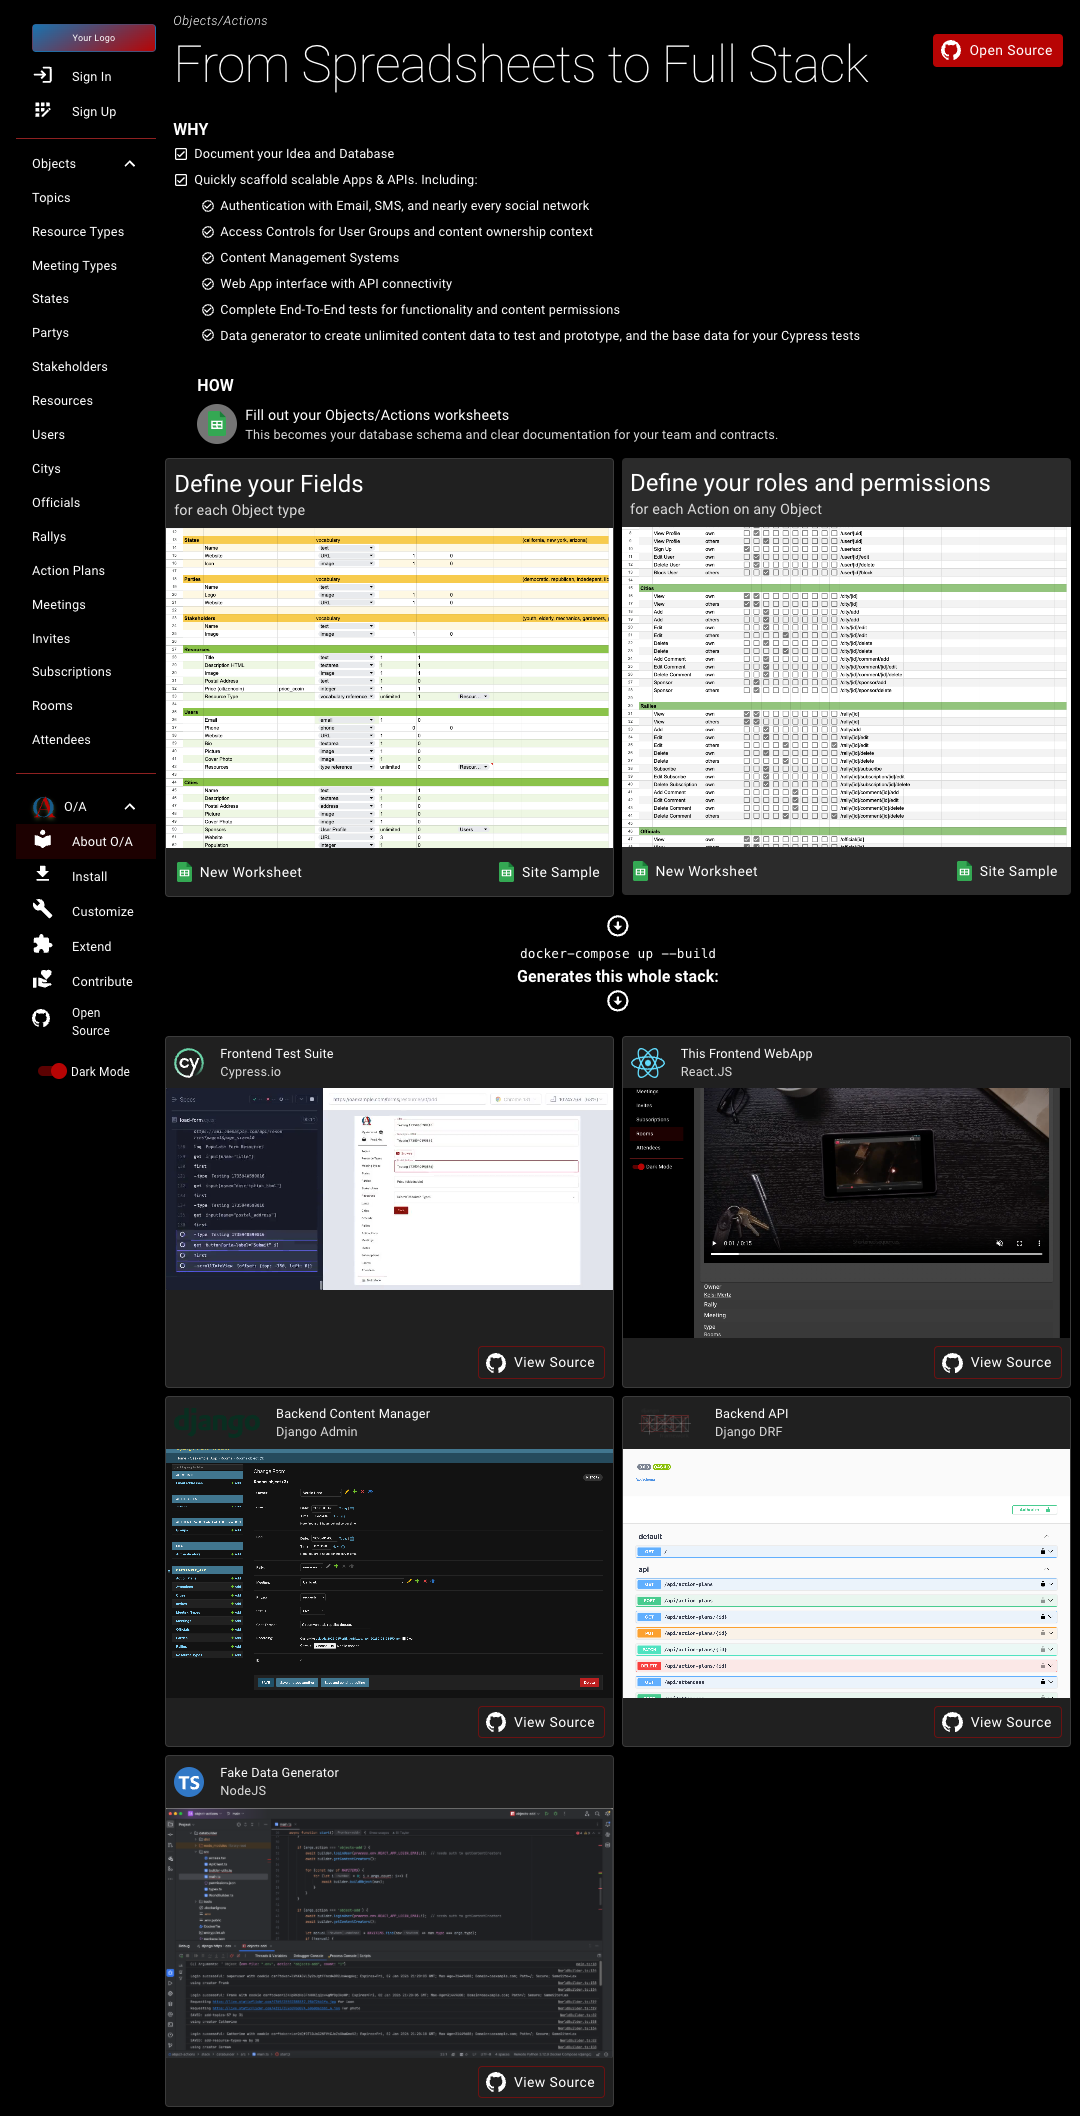
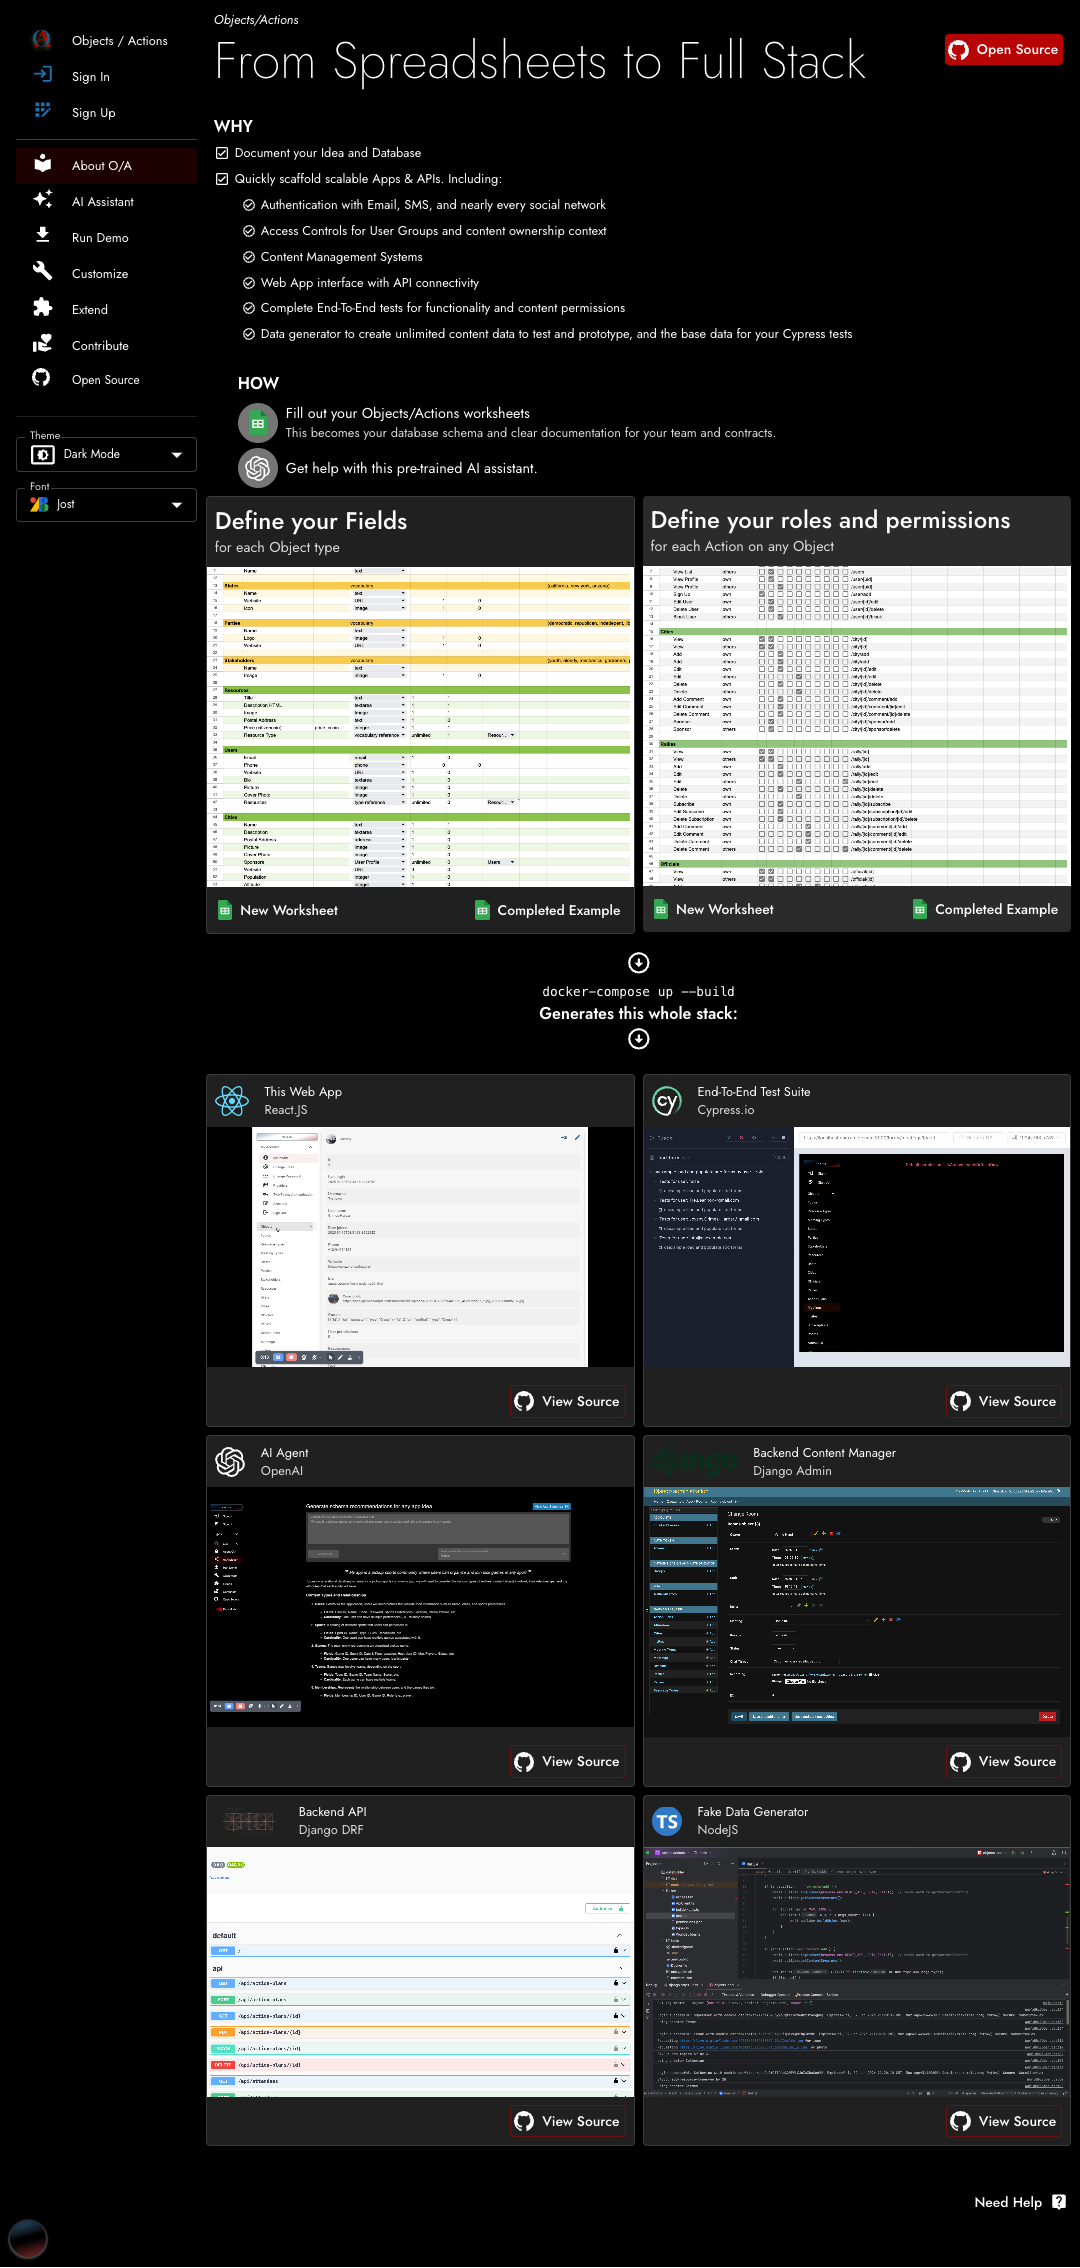
#major release with AI agent to help with schema building

diff --git a/stack/reactjs/src/object-actions/docs/OaStackCards.tsx b/stack/reactjs/src/object-actions/docs/OaStackCards.tsx
@@ -24,6 +24,55 @@ const OaStackCards: React.FC = () => {
       alignContent={'flex-start'}
       alignItems={'flex-start'}
     >
+
+      <Grid item xs={12} sm={6} data-label={'ReactWebApp'}>
+        <Card variant="outlined">
+          <CardHeader
+            sx={{ mb: 0, p: 1 }}
+            avatar={<img src={'/oa-assets/logo-react.svg'} height={30} />}
+            title={'This Web App'}
+            subheader={'React.JS'}
+          />
+
+          <CardMedia sx={{ height: mediaHeight, position: 'relative' }} >
+            <video
+              autoPlay
+              muted
+              playsInline={true}
+              loop={true}
+              poster={'https://github.com/eliataylor/objects-actions/raw/main/docs/images/demo-reactjs.png'}
+              style={{ width: '100%' }}
+              controls={true}
+            >
+              <source src={'/oa-assets/walkthrough.mp4'} type="video/mp4" />
+            </video>
+          </CardMedia>
+
+          <Box sx={{ textAlign: 'right', p: 1, alignContent: 'flex-end' }}>
+            <a
+              href={
+                'https://github.com/eliataylor/objects-actions/blob/main/stack/reactjs/src/theme/ThemeContext.js'
+              }
+              target={'_blank'}
+            >
+              <TightButton
+                size={'small'}
+                variant={'outlined'}
+                startIcon={
+                  <LightDarkImg
+                    light={'/oa-assets/github-mark.svg'}
+                    dark={'/oa-assets/github-mark-white.svg'}
+                    styles={{ height: 20 }}
+                  />
+                }
+              >
+                View Source
+              </TightButton>
+            </a>
+          </Box>
+        </Card>
+      </Grid>
+
       <Grid item xs={12} sm={6} data-label={'CypressIO'}>
         <Card sx={{ position: 'relative' }} variant="outlined">
           <CardHeader
@@ -55,54 +104,6 @@ const OaStackCards: React.FC = () => {
             <a
               href={
                 'https://github.com/eliataylor/objects-actions/blob/main/stack/cypress/cypress/e2e/read-only/load-form.cy.ts#L20'
-              }
-              target={'_blank'}
-            >
-              <TightButton
-                size={'small'}
-                variant={'outlined'}
-                startIcon={
-                  <LightDarkImg
-                    light={'/oa-assets/github-mark.svg'}
-                    dark={'/oa-assets/github-mark-white.svg'}
-                    styles={{ height: 20 }}
-                  />
-                }
-              >
-                View Source
-              </TightButton>
-            </a>
-          </Box>
-        </Card>
-      </Grid>
-
-      <Grid item xs={12} sm={6} data-label={'ReactWebApp'}>
-        <Card variant="outlined">
-          <CardHeader
-            sx={{ mb: 0, p: 1 }}
-            avatar={<img src={'/oa-assets/logo-react.svg'} height={30} />}
-            title={'This Web App'}
-            subheader={'React.JS'}
-          />
-
-          <CardMedia sx={{ height: mediaHeight, position: 'relative' }} >
-            <video
-              autoPlay
-              muted
-              playsInline={true}
-              loop={true}
-              poster={'https://github.com/eliataylor/objects-actions/raw/main/docs/images/demo-reactjs.png'}
-              style={{ width: '100%' }}
-              controls={true}
-            >
-              <source src={'/oa-assets/walkthrough.mp4'} type="video/mp4" />
-            </video>
-          </CardMedia>
-
-          <Box sx={{ textAlign: 'right', p: 1, alignContent: 'flex-end' }}>
-            <a
-              href={
-                'https://github.com/eliataylor/objects-actions/blob/main/stack/reactjs/src/theme/ThemeContext.js'
               }
               target={'_blank'}
             >

diff --git a/stack/reactjs/src/screens/Home.tsx b/stack/reactjs/src/screens/Home.tsx
@@ -28,13 +28,13 @@ const Home: React.FC<HomeProps> = ({ loading = false }) => {
       }}
     >
       <Grid item>
-        <Typography variant="h2" component={'h1'} >
+        <Typography variant="h2" component={"h1"}>
           Your Brand
         </Typography>
         <Grid sx={{ width: 300, margin: "auto", marginTop: 3, marginBottom: 3 }}>
           <Logo height={60} />
         </Grid>
-        <Typography variant="h2" component={Link} to={"/content"} >
+        <Typography variant="h2" component={Link} to={"/content"} style={{textDecorationThickness:1}} >
           Your Content
         </Typography>
       </Grid>
@@ -47,6 +47,10 @@ const Home: React.FC<HomeProps> = ({ loading = false }) => {
         </Grid>
       )}
 
+      <Typography variant="h2" component={"a"} style={{textDecorationThickness:1}} href={"https://github.com/eliataylor/objects-actions"} target={"_blank"}>
+        Your CodeBase
+      </Typography>
+
       <Grid
         container
         wrap={"nowrap"}
@@ -55,6 +59,7 @@ const Home: React.FC<HomeProps> = ({ loading = false }) => {
         alignContent={"center"}
       >
         <Grid item style={{ textAlign: "left" }}>
+
           <Typography variant="overline" style={{ fontSize: 10 }}>Kick started by</Typography>
           <Grid container alignContent={"center"} alignItems={"flex-end"} gap={1}>
             <Grid item>

diff --git a/stack/reactjs/src/object-actions/docs/Contribute.tsx b/stack/reactjs/src/object-actions/docs/Contribute.tsx
@@ -37,12 +37,12 @@ const Contribute: React.FC = () => {
           New Frontends
         </Typography>
         <Typography variant="body1" component={"li"} gutterBottom={true}>
-          This just means rebuilding in web app in NextJS, Vue, Angular, Svelt, or maybe just replacing MUI with Tailwind, SCSS, Bootstrap.
-          Whatever the case, the site should be entirely driven by these constants and TypeScript definitions: <a
+          This just mean building a web app entirely driven by these constants and TypeScript definitions: <a
           href="https://github.com/eliataylor/objects-actions/tree/main/stack/reactjs/src/object-actions/types"
           target="_blank"
           rel="noopener noreferrer"
         >github.com/eliataylor/objects-actions/tree/main/stack/reactjs/src/object-actions/types</a>.
+          NextJS, Vue, Angular, Svelt would all be great alternatives. And/or just replacing MUI with Tailwind, SCSS, Bootstrap, or another CSS framework.
         </Typography>
       </StyledPaper>
 

diff --git a/stack/reactjs/src/object-actions/forming/EnvProvider.tsx b/stack/reactjs/src/object-actions/forming/EnvProvider.tsx
@@ -23,7 +23,7 @@ const defaultEnvConfig: EnvConfig = {
   REACT_APP_API_HOST: process.env.REACT_APP_API_HOST || 'https://localapi.oaexample.com:8080',
   REACT_APP_APP_HOST: process.env.REACT_APP_APP_HOST || 'https://localhost.oaexample.com:3000',
   REACT_APP_LOGIN_EMAIL: process.env.REACT_APP_LOGIN_EMAIL || 'info@oaexample.com',
-  REACT_APP_LOGIN_PASS: process.env.REACT_APP_LOGIN_PASS || 'APasswordYouShouldChange',
+  REACT_APP_LOGIN_PASS: process.env.NODE_ENV === 'development' ? process.env.REACT_APP_LOGIN_PASS || 'APasswordYouShouldChange' : 'APasswordYouShouldChange',
   DEFAULT_PERMS: process.env.REACT_APP_DEFAULT_PERMS || 'IsAuthenticatedOrReadOnly',
   OA_ENV_DB: 'docker',
   OA_ENV_EMAIL: 'console',

diff --git a/stack/reactjs/src/object-actions/docs/Customize.tsx b/stack/reactjs/src/object-actions/docs/Customize.tsx
@@ -42,6 +42,12 @@ const Customize: React.FC = () => {
         />
       </StyledPaper>
 
+      <StyledPaper>
+        <Typography variant="h6">4. Rebuild all containers:</Typography>
+        <Command
+          command="docker-compose up --build -d"
+        />
+      </StyledPaper>
 
 
 

diff --git a/stack/django/oaexample_base/settings/database.py b/stack/django/oaexample_base/settings/database.py
@@ -27,8 +27,8 @@ DATABASES = {
 if OA_ENV_DB == 'local':
     DATABASES["default"]["HOST"] = "127.0.0.1"
 elif OA_ENV_DB == 'docker':
-    # DATABASES["default"]["HOST"] = "mysqlv8" # when running django and mysql inside bridged docker containers
-    DATABASES["default"]["HOST"] = "127.0.0.1"  # when running mysql in docker and django on host
+    DATABASES["default"]["HOST"] = "mysqlv8" # when running django and mysql inside bridged docker containers
+    # DATABASES["default"]["HOST"] = "127.0.0.1"  # when running mysql in docker and django on host
 elif OA_ENV_DB == 'gcp':
     DATABASES["default"]["NAME"] = myEnv("MYSQL_DATABASE", "localdb")
     DATABASES["default"]["USER"] = myEnv("MYSQL_USER", "localuser")

diff --git a/README.md b/README.md
@@ -1,7 +1,7 @@
 _Objects/Actions_ :: **From Spreadsheets to Full Stack**
 
 
-# Interactive Documentation and Demo Site: [oaexample.com/oa/readme](https://oaexample.com/oa/readme)
+## Interactive Docs & Demo Site: [oaexample.com/oa/readme](https://oaexample.com/oa/readme)
 
 ![readme.png](docs/images/readme.png)
 
@@ -23,7 +23,7 @@ Offer Sign-in / Sign-up from any of these [AllAuth Providers](https://docs.allau
 
 
 # TO RUN:
-Follow [oaexample.com/oa/install](https://oaexample.com/oa/install)
+Follow [oaexample.com/oa/run](https://oaexample.com/oa/install)
 
 # TO CUSTOMIZE:
 Follow [oaexample.com/oa/customize](https://oaexample.com/oa/customize)
@@ -36,3 +36,11 @@ Follow [oaexample.com/oa/contribute](https://oaexample.com/oa/contribute)
 
 # TO SPONSOR:
 Donate [github.com/sponsors/eliataylor](https://github.com/sponsors/eliataylor)
+
+# TO GET AI HELP:
+Use [oaexample.com/oa/schemas/add](https://oaexample.com/oa/contribute)
+
+# TO GET HUMAN HELP:
+Pick options at [oaexample.com/oa/consulting](https://oaexample.com/oa/contribute)
+
+

diff --git a/JOB_DESCRIPTION.md b/JOB_DESCRIPTION.md
@@ -61,4 +61,4 @@ You will play a crucial role in developing, optimizing, and deploying new featur
 
 ## Why Join Us?
 
- - Because we're awesome...
+ - Because ...
